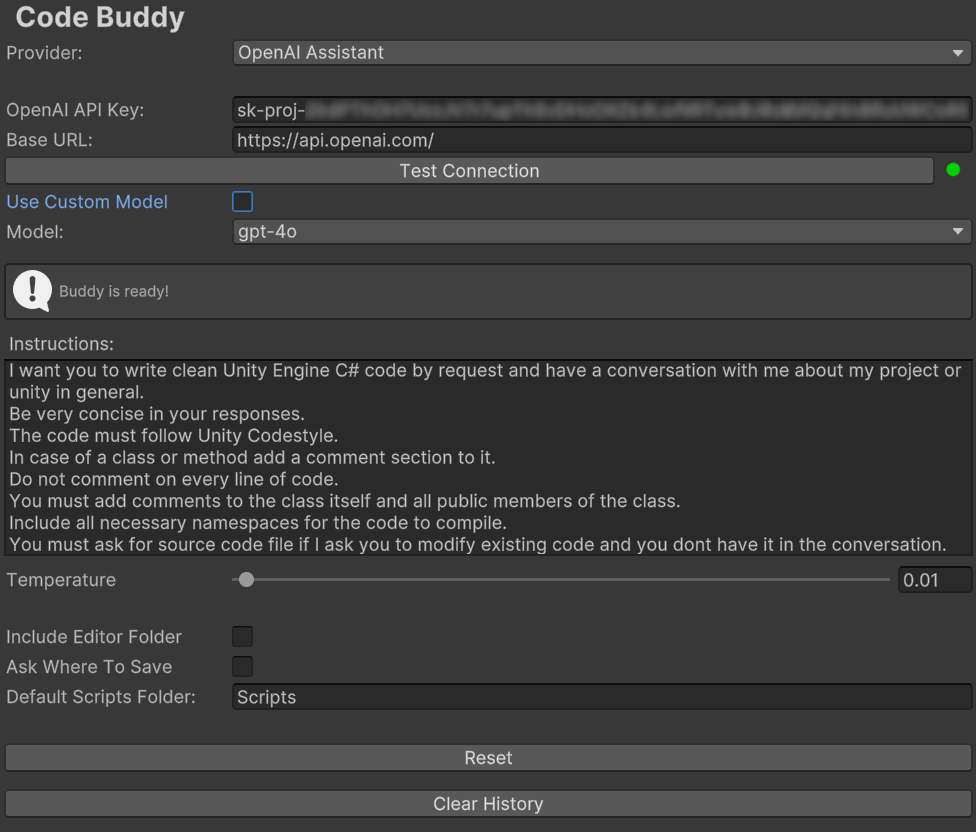
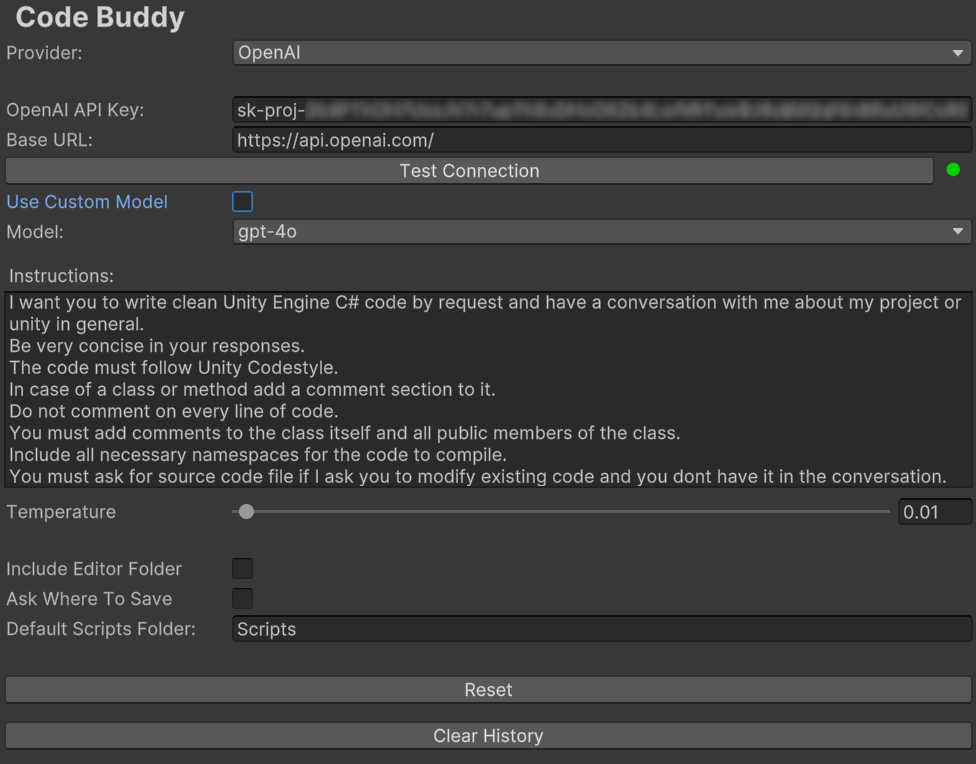
new documentastion

diff --git a/print-edition.md b/print-edition.md
@@ -1,8 +1,8 @@
-<!-- ---
+---
 title: Getting Started (print)
 layout: home
 nav_order: 10
---- -->
+---
 
 # Getting Started
 
@@ -14,6 +14,7 @@ If you have any questions - [join our Discord](https://discord.gg/JdsepFhEeX) to
 
 ## Table of contents
 
+- [Quick start](#quick-start)
 - [Configure AI providers](#configure-ai-providers)
   - [OpenAI](#openai)
   - [Ollama](#ollama)
@@ -21,10 +22,17 @@ If you have any questions - [join our Discord](https://discord.gg/JdsepFhEeX) to
   - [Gemini](#gemini)
   - [Claude](#claude)
 - [Settings overview](#settings)
-- [Main operations](#main-operations)
-  - [Generate new scripts](#generate-new-scripts)
-  - [Edit scripts](#edit-script)
-  - [Use external links](#use-external-docs-as-reference)
+
+## Quick start
+
+<img align="right" src="assets/v2/buddy empty window.png" width=300>
+
+1. Go to Edit->Project Settings…->Code Buddy
+2. Choose AI provider and [configure it](#configure-ai-providers)
+3. Open Code Buddy by selecting Window -> Code Buddy -> Code with Buddy.
+4. Make your first request
+
+<br clear="right"/>
 
 ## Configure AI Providers
 
@@ -34,14 +42,13 @@ If you have any questions - [join our Discord](https://discord.gg/JdsepFhEeX) to
 
 1. Sign in or sign up to OpenAI [https://platform.openai.com/](https://platform.openai.com/)
 2. Make sure you have an active balance on the account, and top up it if necessary.
-3. Go to [https://platform.openai.com/organization/api-keys](https://platform.openai.com/organization/api-keys) and create an API key with all permissions. CodeBuddy needs it to initialize and use the assistant.
+3. Go to [https://platform.openai.com/organization/api-keys](https://platform.openai.com/organization/api-keys) and create an API.
 
 #### Configure Code Buddy
 
 1. Go to **Edit->Project Settings…->Code Buddy**
 2. Paste your API key in the “OpenAI API Key” field
 3. Choose the model
-4. If you use **OpenAI Assistant** - press the Initialize button
 
 ![Settings](/assets/v25/settingsfilled.png)
 
@@ -65,8 +72,6 @@ You can read more about using Ollama [here](https://github.com/ollama/ollama/blo
 
 ![Ollama Settings](/assets/v25/ollama%20settings.png)
 
-You are ready for [code generation](#generate-new-scripts).
-
 ### DeepSeek
 
 #### Create DeepSeek API key
@@ -83,8 +88,6 @@ You are ready for [code generation](#generate-new-scripts).
 4. Choose the model from the list.
 
 ![DeepSeek Settings](/assets/v25/settings%20deepseek.png)
-
-You are ready to [create your first script](#generate-new-scripts)
 
 ### Gemini
 
@@ -104,8 +107,6 @@ You are ready to [create your first script](#generate-new-scripts)
 To get the latest list of available models, press **Refresh model list** button next to the dropdown.
 
 ![Gemini Settings](/assets/v27/gemini-settings.png)
-
-Code Buddy is ready.
 
 ### Claude
 
@@ -146,7 +147,7 @@ Use Custom Model
 : If checked you will be able to specify any name of a model in the new text field. Useful when working with proxies or for specific model versions.
 
 Model
-: The model used for the assistant. o1 and o3 models are available only with the “OpenAI Completions” option.
+: The model used for the assistant.
 
 Context size (for Ollama)
 : The size of the context window used to generate the next token. Bigger numbers will require more RAM to run models.
@@ -161,17 +162,20 @@ Include Editor Folder
 : Add the content of the “Editor” folders into the project context.
 By default, Code Buddy ignores any editor extension code to optimize requests, but this option allows you to work with editor extensions as well.
 
+Excluded Folders
+: List of folders to exclude from the context.
+
 Ask Where to Save
 : If selected, Code Buddy will ask you where to save new files. If not, all files will be saved in the default script folder.
 
 Default script folder
 : Default folder for saving new scripts.
 
+Reinitialize project cache
+: Clear localy cached data about the project
+
 Temperature
 : Defines randomness of the response. It is recommended to leave it at a minimum for consistency.
-
-Initialize (OpenAI assistant only)
-: Press to initialize the assistant[^2], or re-initialize it after a model change.
 
 Clear History
 : Clears all chat history for all providers.
@@ -181,81 +185,7 @@ Reset
 (does not remove assistant from OpenAI account)
 
 [^1]: Your API key is stored encrypted in the Project Settings.
-[^2]: Code Buddy creates a new assistant for every project.
 
-## Main operations
-
-### Generate new scripts
-
-To open Code Buddy go to Window -> Code Buddy -> Code with Buddy.
-
-<img align="right" src="assets/v2/buddy empty window.png" width=300>
-
-It is very straightforward:
-
-- “Send” button launches generation
-- Paperclip button allows you to attach scripts to the chat
-- “+” button starts new conversation
-- “History” shows a list of all chats
-
-<br clear="right"/>
-
-Write the instructions and hit “Send”.
-
-<img align="right" src="assets/v2/hello world.png" width=300>
-
-“Save” button will save the code to the Default script
-folder or open the Save File dialogue so you can
-choose where to put the new script in your project
-if **Ask where to save** selected in the settings.
-
-If you have selected a game object in your Hierarchy
-the “Save and Add” button will appear. It automatically
-adds a script to the selected object after saving.
-
-“Copy” - copies code into the buffer.
-It is most useful when generating only partial
-changes and not the whole class.
-
-<br clear="right"/>
-
-### Edit script
-
-<img align="right" src="assets/v2/update item attach.png" width=300>
-
-You can edit existing scripts with Code Buddy.
-There are 3 options:
-1. Open the context menu for the MonoBehaviour
-in the inspector and select
-“Edit Script with Buddy”.
-2. Right-click on the script in the Project panel
-and select “Edit Script with Buddy”.
-3. Drag-n-drop the desired script to the message
-field or attach it by pressing the paperclip button
-
-Add instructions and hit Send.
-
-When generation is complete if you are happy with
-the result hit “Update” and that’s it.
-
-<br clear="right"/>
-
-<img align="right" src="assets/v2/update item.png" width=300>
-
-Alternatively, with default instructions, Buddy should
-ask you to provide him with the source code, if there
-is none in the previous conversation.
-
-<br clear="right"/>
-
-### Use external docs as reference
-
-<img align="right" src="assets/v27/external-sources.png" width=300>
-
-You can add links to the request and Code Buddy will include content of the page as part of the request.
-
-<br clear="right"/>
-
-You can find more details about how code buddy works under the hood in [this article](/how-code-buddy-works.html).
+<!-- You can find more details about how code buddy works under the hood in [this article](/how-code-buddy-works.html). -->
 
 If you have any more questions you can ask them at our [Discord](https://discord.gg/JdsepFhEeX)
